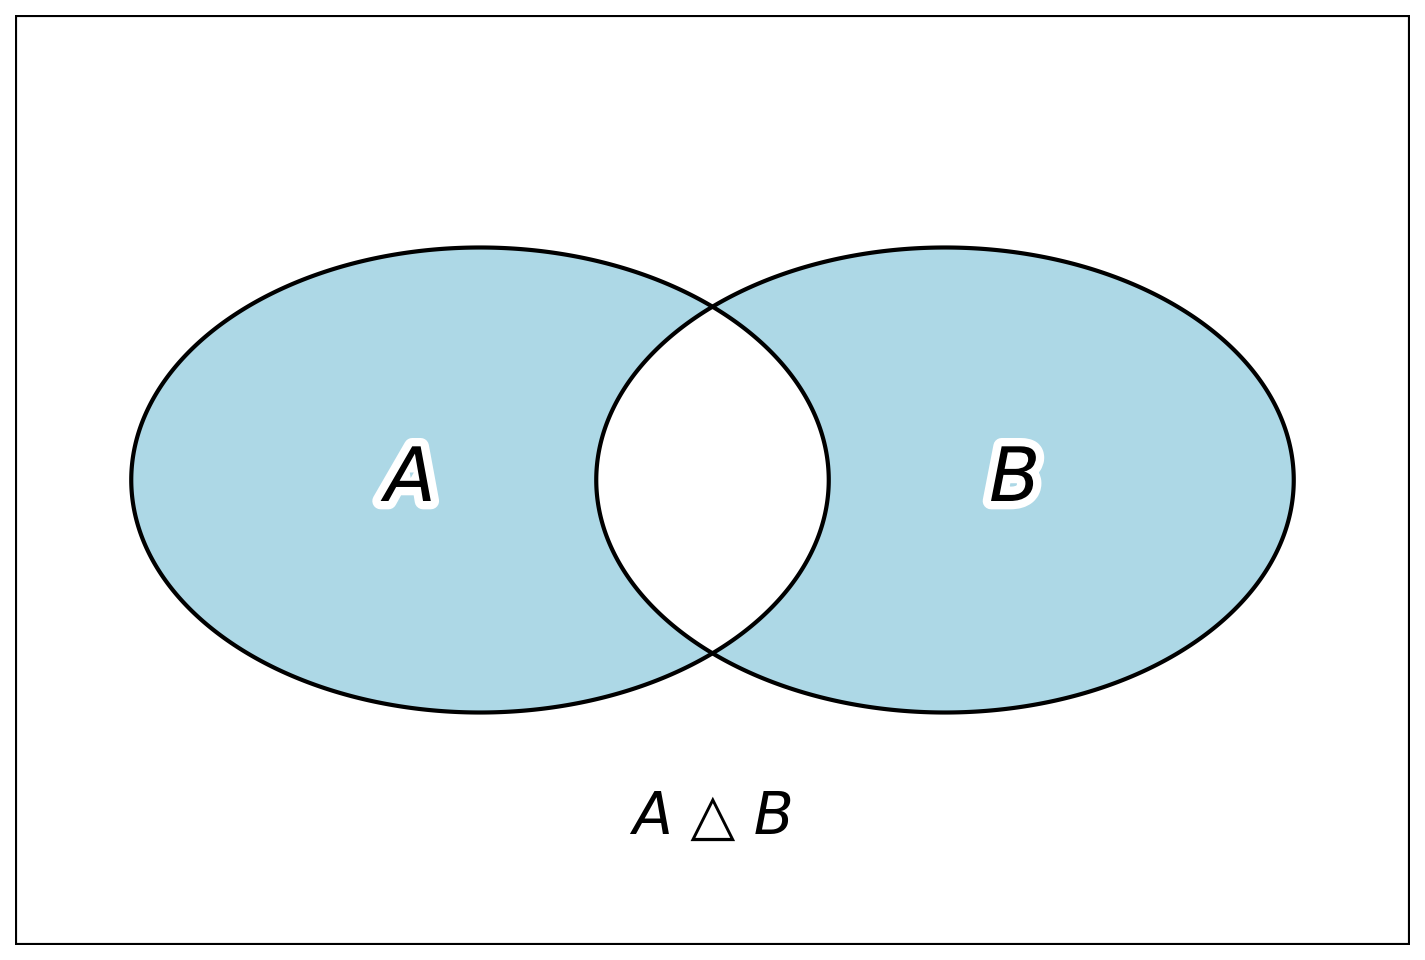
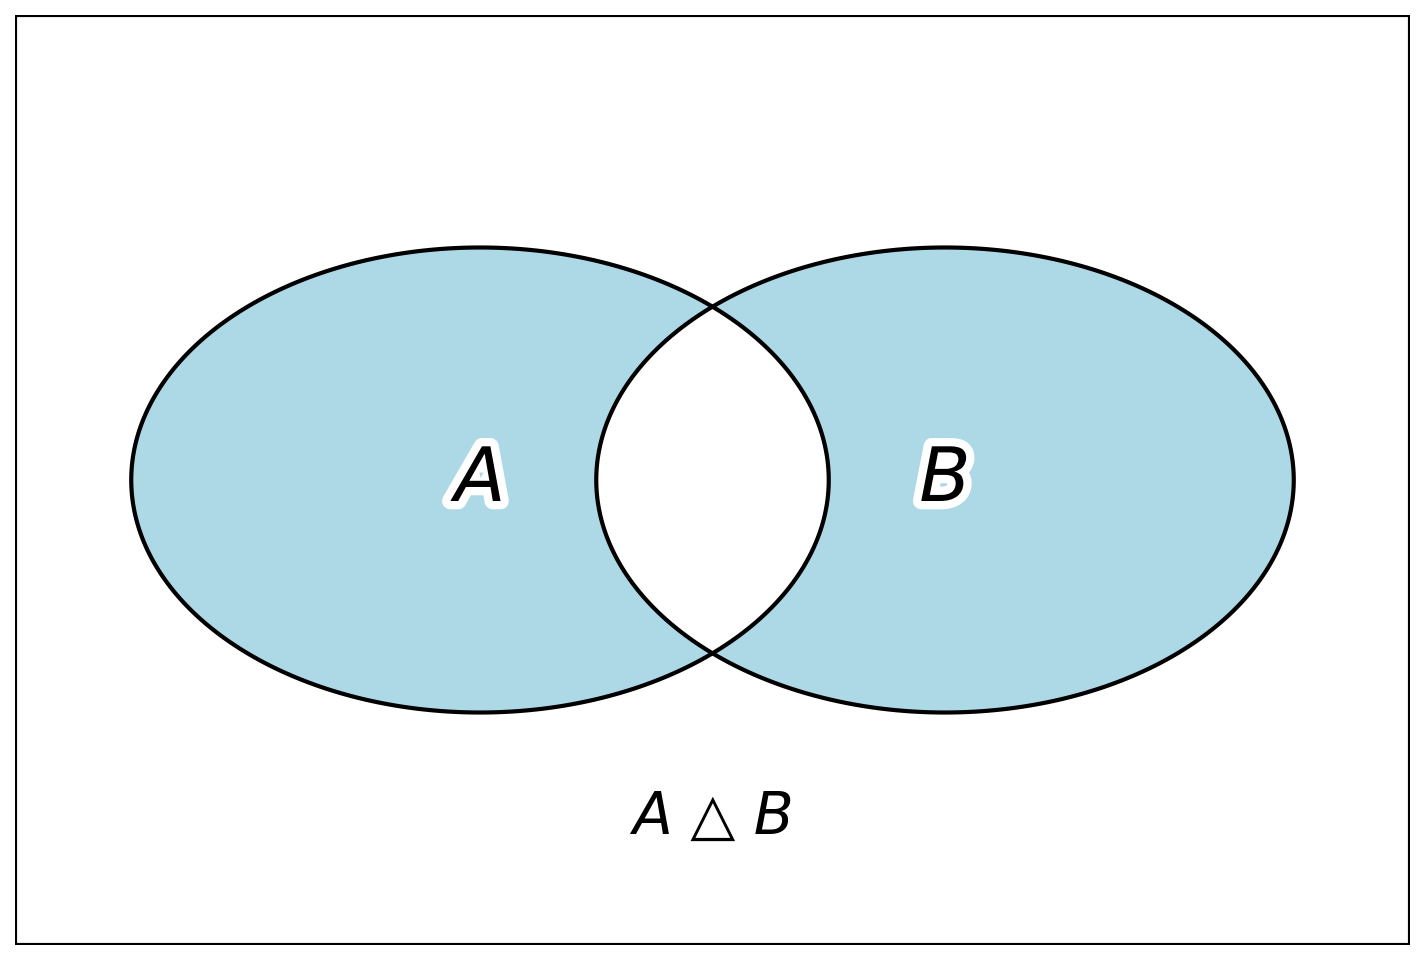
book: унифицировано оформление диаграмм Венна

Changed region(s): [[0.6175, 0.4375, 0.7411, 0.5312], [0.247, 0.4375, 0.3705, 0.5312]]

diff --git a/code/scripts/figures/ch01/examples/06_event_symmetric_difference.py b/code/scripts/figures/ch01/examples/06_event_symmetric_difference.py
@@ -50,7 +50,7 @@ def draw(ax):
         for patch in shape_to_patches(shape, facecolor='none', edgecolor='black'):
             ax.add_patch(patch)
 
-    for label, x in [('A', 1.7), ('B', 4.3)]:
+    for label, x in [('A', 2.0), ('B', 4.0)]:
         text = ax.text(x, 2, label, ha='center', va='center', fontsize=18, fontstyle='italic')
         text.set_path_effects([path_effects.Stroke(linewidth=4, foreground='white'), path_effects.Normal()])
     ax.text(3, 0.55, 'A △ B', ha='center', va='center', fontsize=14, fontstyle='italic', bbox=formula_box)